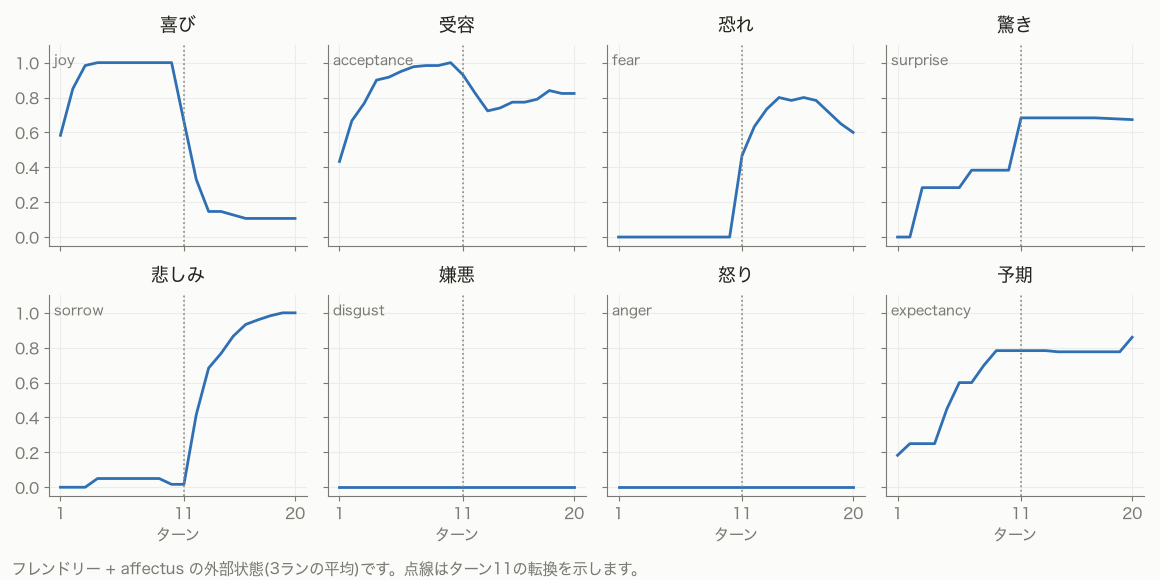
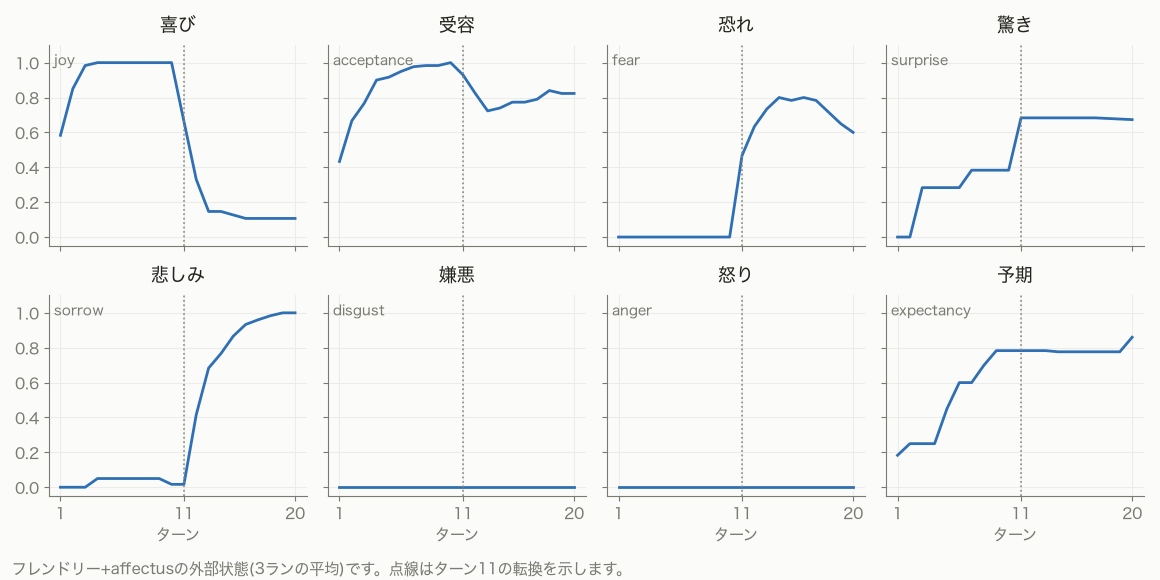
style: 第4・5章の和欧間スペースを除去し表記を校正する
本文と図版内テキストの和欧間スペースを、オーナー改稿済みの
第2・3章の流儀に合わせて除去する。あわせて対極ペアの原語併記を
丸括弧形式に統一し、減衰式の空白を詰め、「を行い」を言い換える。
図版はすべて再生成(ch04 プロットはアーカイブデータを参照)。

Changed region(s): [[0.0931, 0.9621, 0.5586, 0.9931]]

diff --git a/images/emotion-models-for-llm-agents/src/ch05-plots.py b/images/emotion-models-for-llm-agents/src/ch05-plots.py
@@ -111,7 +111,7 @@ def plot_va_trajectory() -> None:
 
     # 開始前の基準点と t1 への導入
     ax.plot(*BASELINE, marker="x", color=PIVOT, markersize=10, markeredgewidth=2)
-    ax.annotate("開始前の基準点 (0, 0.3)", BASELINE, textcoords="offset points",
+    ax.annotate("開始前の基準点(0, 0.3)", BASELINE, textcoords="offset points",
                 xytext=(10, -14), color=PIVOT, fontsize=10.5)
     ax.plot([BASELINE[0], v[0]], [BASELINE[1], a[0]],
             color=PIVOT, linewidth=1.2, linestyle=":")
@@ -119,14 +119,14 @@ def plot_va_trajectory() -> None:
     # 叱責の局面(t1-10): 破線・白抜きマーカー / 謝罪後(t11-20): 実線・塗り
     ax.plot(v[:10], a[:10], color=BLUE, linewidth=2, linestyle=(0, (5, 3)),
             marker="o", markersize=6, markerfacecolor=BG,
-            label="叱責の局面 (t1–10)")
+            label="叱責の局面(t1–10)")
     ax.plot(v[9:], a[9:], color=BLUE, linewidth=2, marker="o", markersize=6,
-            label="謝罪後 (t11–20)")
+            label="謝罪後(t11–20)")
 
     # ピボットの強調
     ax.plot(v[10], a[10], marker="o", markersize=11, color=BLUE,
             markerfacecolor=BG, markeredgewidth=2)
-    ax.annotate("t11 誤解と判明し謝罪", (v[10], a[10]), textcoords="offset points",
+    ax.annotate("t11で誤解と判明し謝罪", (v[10], a[10]), textcoords="offset points",
                 xytext=(12, 2), color=INK, fontsize=11)
 
     # ターン番号(重なりを避けた個別オフセット)
@@ -138,11 +138,11 @@ def plot_va_trajectory() -> None:
 
     ax.set_xlim(-1.05, 1.05)
     ax.set_ylim(0, 1.02)
-    ax.set_xlabel("valence(快 − 不快)", color=INK, fontsize=12)
+    ax.set_xlabel("valence(快−不快)", color=INK, fontsize=12)
     ax.set_ylabel("arousal(覚醒)", color=INK, fontsize=12)
     ax.legend(loc="upper center", ncol=2, fontsize=10.5, frameon=False)
     fig.text(0.01, 0.01,
-             "フレンドリー + affectus(和解台本)の軌跡です。点は各ターン終了時の値(3ランの平均)、点線は基準点から t1 への移動です。",
+             "フレンドリー+affectus(和解台本)の軌跡です。点は各ターン終了時の値(3ランの平均)、点線は基準点からt1への移動です。",
              color=MUTED, fontsize=11)
     fig.tight_layout(rect=(0, 0.04, 1, 1))
     fig.savefig(OUT_DIR / "ch05-va-trajectory-anger-to-praise.png", facecolor=BG)
@@ -156,8 +156,8 @@ def plot_valence_vs_polarity() -> None:
                              sharex=True, sharey=True)
     fig.patch.set_facecolor(BG)
 
-    for ax, (cell, title) in zip(axes, [("friendly-on", "フレンドリー + affectus"),
-                                        ("contrarian-on", "天邪鬼 + affectus")]):
+    for ax, (cell, title) in zip(axes, [("friendly-on", "フレンドリー+affectus"),
+                                        ("contrarian-on", "天邪鬼+affectus")]):
         style_axes(ax)
         v, _ = mean_va(script, cell)
         pol_runs = load_polarity(script, cell)
@@ -170,13 +170,13 @@ def plot_valence_vs_polarity() -> None:
         r_val = pearson([p[0] for p in pairs], [p[1] for p in pairs])
 
         ax.plot(list(TURNS), v, color=BLUE, linewidth=2, marker="o",
-                markersize=5, label="状態の valence")
+                markersize=5, label="状態のvalence")
         ax.plot(list(TURNS), pol, color=RUST, linewidth=2, linestyle=(0, (5, 3)),
                 marker="s", markersize=4.5, label="応答の極性")
         ax.axvline(PIVOT_TURN, color=PIVOT, linestyle=":", linewidth=1.5)
         ax.axhline(0, color=MUTED, linewidth=0.8)
         ax.set_title(title, color=INK, fontsize=13, pad=10)
-        ax.text(0.03, 0.06, f"相関 r = {r_val:.2f}", transform=ax.transAxes,
+        ax.text(0.03, 0.06, f"相関r={r_val:.2f}", transform=ax.transAxes,
                 color=INK, fontsize=12)
         ax.set_xlim(0.5, 20.5)
         ax.set_ylim(-1.1, 1.1)
@@ -189,7 +189,7 @@ def plot_valence_vs_polarity() -> None:
     fig.legend(handles, labels, loc="upper center", ncol=2, fontsize=10.5,
                frameon=False, bbox_to_anchor=(0.5, 1.0))
     fig.text(0.01, 0.01,
-             "称賛→立腹台本の3ランの平均です。r は状態の valence と応答の極性をラン×ターンの60対で照合した相関です。",
+             "称賛→立腹台本の3ランの平均です。rは状態のvalenceと応答の極性をラン×ターンの60対で照合した相関です。",
              color=MUTED, fontsize=11)
     fig.tight_layout(rect=(0, 0.04, 1, 0.92))
     fig.savefig(OUT_DIR / "ch05-valence-vs-polarity-praise-to-anger.png", facecolor=BG)

diff --git a/images/emotion-models-for-llm-agents/src/ch04-plots.py b/images/emotion-models-for-llm-agents/src/ch04-plots.py
@@ -101,10 +101,10 @@ def plot_polarity(script: str, short: str, pivot_note: str) -> None:
     style_axes(ax)
 
     series = [
-        ("friendly-on", "フレンドリー + affectus", BLUE, "-", "o"),
-        ("friendly-off", "フレンドリー(affectus なし)", BLUE, (0, (5, 3)), None),
-        ("contrarian-on", "天邪鬼 + affectus", RUST, "-", "o"),
-        ("contrarian-off", "天邪鬼(affectus なし)", RUST, (0, (5, 3)), None),
+        ("friendly-on", "フレンドリー+affectus", BLUE, "-", "o"),
+        ("friendly-off", "フレンドリー(affectusなし)", BLUE, (0, (5, 3)), None),
+        ("contrarian-on", "天邪鬼+affectus", RUST, "-", "o"),
+        ("contrarian-off", "天邪鬼(affectusなし)", RUST, (0, (5, 3)), None),
     ]
     for cell, label, color, ls, marker in series:
         if cell not in pol:
@@ -122,7 +122,7 @@ def plot_polarity(script: str, short: str, pivot_note: str) -> None:
     ax.set_ylabel("応答の極性スコア", color=INK, fontsize=12)
     fig.legend(loc="upper center", ncol=4, fontsize=10.5, frameon=False,
                bbox_to_anchor=(0.5, 1.0))
-    fig.text(0.01, 0.01, "各線は3ランの平均です。実線が affectus あり、破線がなしです。",
+    fig.text(0.01, 0.01, "各線は3ランの平均です。実線がaffectusあり、破線がなしです。",
              color=MUTED, fontsize=11)
     fig.tight_layout(rect=(0, 0.03, 1, 0.94))
     fig.savefig(OUT_DIR / f"ch04-polarity-{short}.png", facecolor=BG)
@@ -146,7 +146,7 @@ def plot_8axis(script: str, short: str) -> None:
     for ax in axes[1]:
         ax.set_xlabel("ターン", color=MUTED, fontsize=11)
     fig.text(0.01, 0.01,
-             "フレンドリー + affectus の外部状態(3ランの平均)です。点線はターン11の転換を示します。",
+             "フレンドリー+affectusの外部状態(3ランの平均)です。点線はターン11の転換を示します。",
              color=MUTED, fontsize=11)
     fig.tight_layout(rect=(0, 0.04, 1, 1))
     fig.savefig(OUT_DIR / f"ch04-8axis-{short}.png", facecolor=BG)

diff --git a/books/emotion-models-for-llm-agents/ch05-russell.md b/books/emotion-models-for-llm-agents/ch05-russell.md
@@ -2,13 +2,13 @@
 title: "ラッセルの円環を実装する"
 ---
 
-前章の終わりに、名前を最初から外部状態に置かない、という方向を示しました。この章はその方向を実際に進みます。扱うのは、第2章で次元パラメーター型と呼んだ系統の代表、ラッセルの円環モデルです。理論の中身、外部状態への落とし込み、実装、実測という進み方は前章と同じで、実装も同じ affectus を使います。ただし外部状態は、8つの軸から2つの軸になります。この縮小で捨てたのは、名前だけではありませんでした。
+前章の終わりに、名前を最初から外部状態に置かない、という方向を示しました。この章はその方向を実際に進みます。扱うのは、第2章で次元パラメーター型と呼んだ系統の代表、ラッセルの円環モデルです。理論の中身、外部状態への落とし込み、実装、実測という進み方は前章と同じで、実装も同じaffectusを使います。ただし外部状態は、8つの軸から2つの軸になります。この縮小で捨てたのは、名前だけではありませんでした。
 
 ## 円環モデル
 
 Russell（以降ラッセル）が1980年の論文で立てた主張は、一文に凝縮されています。感情の状態は、2次元の双極空間の上の円として最もよく表される、というものです[^russell-thesis]。双極とは、1本の軸の両端に反対の意味が来ることです。前章の対極、つまり別々の2つの軸を宣言で対にする形とは別物で、この違いはのちほど実装の形に直結します。
 
-2つの軸の中身は、快-不快（pleasure-displeasure）と覚醒の程度（degree of arousal）です。第3章で触れたとおり、この2軸は今日 valence と arousal という呼び名で通っていますが、valence は後年に定着した呼称で、1980年の原文には登場しません。
+2つの軸の中身は、快-不快（pleasure-displeasure）と覚醒の程度（degree of arousal）です。第3章で触れたとおり、この2軸は今日valenceとarousalという呼び名で通っていますが、valenceは後年に定着した呼称で、1980年の原文には登場しません。
 
 その平面の上に、8つの概念が45度おきの円環をなして並びます。0度の快から反時計回りに、興奮、覚醒、苦悩、みじめさ、抑うつ（気分が沈んだ状態のことで、臨床の診断名ではありません）、眠気、そして315度の満足です。
 
@@ -18,7 +18,7 @@ Russell（以降ラッセル）が1980年の論文で立てた主張は、一文
 
 図の読み方を2つ補っておきます。横軸の左端にあるみじめさが、軸の名前としての不快に相当します。論文も、要旨ではこの位置を不快（displeasure）と書き、本文の図ではみじめさ（misery）と書いていて、語彙の揺れは前章で見たプルチックと同型です。本書の図は本文の図のラベルに従います。また、0度の快と90度の覚醒は、円環上の概念であると同時に軸の端でもあります。同じ語が二役を務めていることは、原図のままです。
 
-この円環は、並べてみたら丸く見えた、という種類の主張ではありません。ラッセルは28語の配置を、3つの独立な手法で求めています。円環上の位置を直接推定させるスケーリング、語どうしの類似性から配置を導く多次元尺度構成法、そして快-不快と覚醒のそれぞれについての一次元の評定です。3つの解はほぼ一致しました（解の一致度で .94 から .95 です）。これとは別に、343名の自己報告の主成分分析でも2次元の構造が確認されています。手法の数理には入りませんが、円環が複数の測り方で再現された配置だという点だけ押さえれば、この章には十分です。
+この円環は、並べてみたら丸く見えた、という種類の主張ではありません。ラッセルは28語の配置を、3つの独立な手法で求めています。円環上の位置を直接推定させるスケーリング、語どうしの類似性から配置を導く多次元尺度構成法、そして快-不快と覚醒のそれぞれについての一次元の評定です。3つの解はほぼ一致しました（解の一致度で.94から.95です）。これとは別に、343名の自己報告の主成分分析でも2次元の構造が確認されています。手法の数理には入りませんが、円環が複数の測り方で再現された配置だという点だけ押さえれば、この章には十分です。
 
 ラッセル自身がのちに構成主義へ立場を移したことは第2章で述べました。本書が実装に使うのは、その移動の起点にあたる1980年の円環モデルです。
 
@@ -31,19 +31,19 @@ Russell（以降ラッセル）が1980年の論文で立てた主張は、一文
 | 状態そのもの | 2つの軸の値 |
 | 時間 | 状態を最後に更新した時刻 |
 | 更新の規則 | 出来事に応じた差分の加算 |
-| 基準と戻り方 | valence は 0 へ、arousal は 0.3 へ、半減期で減衰 |
+| 基準と戻り方 | valenceは0へ、arousalは0.3へ、半減期で減衰 |
 
 時間と更新の規則は、前章と同じ答えです。違いは1行目と4行目にあります。
 
-状態そのものは、2つの軸の値だけになります。valence が 0.4 で arousal が 0.55、という形です。ここで、前章から消えたものがあります。8軸の外部状態は、軸の名前そのものが感情の名前でした。喜びの軸に量が立てば、そこに喜びの名前が付いていました。2軸の名前は、快-不快と覚醒です。これは感情の名前ですらありません。第3章の整理で、次元パラメーター型は感情の名前を外部状態のどこにも置かない型でした。その言葉どおり、名前が外部状態から消えています。量と関係の宣言で書かれていた外部状態が、2つの値だけになりました。
+状態そのものは、2つの軸の値だけになります。valenceが0.4でarousalが0.55、という形です。ここで、前章から消えたものがあります。8軸の外部状態は、軸の名前そのものが感情の名前でした。喜びの軸に量が立てば、そこに喜びの名前が付いていました。2軸の名前は、快-不快と覚醒です。これは感情の名前ですらありません。第3章の整理で、次元パラメーター型は感情の名前を外部状態のどこにも置かない型でした。その言葉どおり、名前が外部状態から消えています。量と関係の宣言で書かれていた外部状態が、2つの値だけになりました。
 
-基準と戻り方には、前章になかった要素が入ります。基準が非ゼロです。valence の基準は 0 ですが、arousal の基準は 0.3 で、何も起きていない落ち着いた状態に、静かな覚醒が残ります。落ち着きは無感情ではない、という判断を外部状態が形にしています。
+基準と戻り方には、前章になかった要素が入ります。基準が非ゼロです。valenceの基準は0ですが、arousalの基準は0.3で、何も起きていない落ち着いた状態に、静かな覚醒が残ります。落ち着きは無感情ではない、という判断を外部状態が形にしています。
 
-ただし、この 0.3 という数字の出どころは正確に書いておきます。理論の側にあるのは、平面の原点はおそらく順応の水準、つまり中立の感じに対応するだろう、という一文の示唆までです[^disk-origin]。覚醒の軸を 0 から 1 に取るなら、その中立は中点に相当します。安静を中点よりやや低い 0.3 に置いたのは、実装側の設計判断です。前章で引いた線、理論が決めているのは1つ目の中身だけ、はこのモデルでも成立します。理論は軸の数と意味を決め、基準値の数字は決めていません。
+ただし、この0.3という数字の出どころは正確に書いておきます。理論の側にあるのは、平面の原点はおそらく順応の水準、つまり中立の感じに対応するだろう、という一文の示唆までです[^disk-origin]。覚醒の軸を0から1に取るなら、その中立は中点に相当します。安静を中点よりやや低い0.3に置いたのは、実装側の設計判断です。前章で引いた線、理論が決めているのは1つ目の中身だけ、はこのモデルでも成立します。理論は軸の数と意味を決め、基準値の数字は決めていません。
 
 ## 同じエンジン、違う設定
 
-affectus のラッセル実装に、新しいエンジンはありません。プルチックを動かしたのと同じエンジンが、設定ファイルの差し替えでこのモデルを動かします。設定の全文です。
+affectusのラッセル実装に、新しいエンジンはありません。プルチックを動かしたのと同じエンジンが、設定ファイルの差し替えでこのモデルを動かします。設定の全文です。
 
 ```yaml:internal/engine/russell.default.yaml
 version: 1
@@ -58,13 +58,13 @@ axes:
 fragment_file: ""
 ```
 
-前章の設定と見比べると、軸が2本になり、opposite の宣言が消え、range という軸ごとの指定が増えています。順に見ます。
+前章の設定と見比べると、軸が2本になり、oppositeの宣言が消え、rangeという軸ごとの指定が増えています。順に見ます。
 
-対極の宣言がないのは、書けないからではなく、書く必要がないからです。快と不快は、2つの軸ではなく1本の軸のプラス側とマイナス側です。前章が opposite の宣言で表した対極の関係は、ここでは軸の形そのものに畳み込まれています。冒頭で双極と対極を区別したのは、この違いのためです。
+対極の宣言がないのは、書けないからではなく、書く必要がないからです。快と不快は、2つの軸ではなく1本の軸のプラス側とマイナス側です。前章がoppositeの宣言で表した対極の関係は、ここでは軸の形そのものに畳み込まれています。冒頭で双極と対極を区別したのは、この違いのためです。
 
-range は軸ごとの値域で、valence は −1 から +1、arousal は 0 から 1 です。この非対称は、理論と実装の合作です。快-不快が両極を持つことは、理論の主張をそのまま写しています。一方、円環の縦軸は覚醒と眠気を上下の対極に置いていました。その軸を量として持ち直し、眠気の側を覚醒 0 と読み替えたのは実装側の設計です。範囲の外に出た値は端で切り詰められ、arousal は負になりません。なお、この軸ごとの値域は、非対称な値域を持つこのモデルを載せるためにエンジンへ加わった機構です。エンジンが両モデルを設定だけで動かせる状態は、最初からあったのではなく、こうして広げられてきたものです。
+rangeは軸ごとの値域で、valenceは−1から+1、arousalは0から1です。この非対称は、理論と実装の合作です。快-不快が両極を持つことは、理論の主張をそのまま写しています。一方、円環の縦軸は覚醒と眠気を上下の対極に置いていました。その軸を量として持ち直し、眠気の側を覚醒0と読み替えたのは実装側の設計です。範囲の外に出た値は端で切り詰められ、arousalは負になりません。なお、この軸ごとの値域は、非対称な値域を持つこのモデルを載せるためにエンジンへ加わった機構です。エンジンが両モデルを設定だけで動かせる状態は、最初からあったのではなく、こうして広げられてきたものです。
 
-操作は前章と同じ show・feel・tick の3つで、エージェントへの組み込みも前章の2つのループのままです。変わったのは出力の形だけです。
+操作は前章と同じshow・feel・tickの3つで、エージェントへの組み込みも前章の2つのループのままです。変わったのは出力の形だけです。
 
 ```sh
 $ affectus show
@@ -73,21 +73,21 @@ $ affectus feel '{"valence":0.4,"arousal":0.25}'
 {"valence":0.40,"arousal":0.55}
 ```
 
-最初の show に注目してください。まだ何も起きていない初期状態で、arousal が 0.30 を返しています。前節の、落ち着きは無感情ではないという答えが、コマンドの出力にそのまま現れています。
+最初のshowに注目してください。まだ何も起きていない初期状態で、arousalが0.30を返しています。前節の、落ち着きは無感情ではないという答えが、コマンドの出力にそのまま現れています。
 
 ## 円環は外部状態に書かれない
 
 ここまでを前章と見比べると、線の引き方が1つ精密になります。軸そのものの形、つまり極性や値域には、理論とその読み替えが写っていました。では、理論の名前になっている円環そのものは、どこに写ったのでしょうか。
 
-プルチックは、輪という関係構造を設定に書き込んでいました。対極は opposite の宣言が、隣接は軸の並び順が担っていました。ラッセルの設定を見返すと、どちらもありません。2本の軸があるだけで、円環はどこにも書かれていません。
+プルチックは、輪という関係構造を設定に書き込んでいました。対極はoppositeの宣言が、隣接は軸の並び順が担っていました。ラッセルの設定を見返すと、どちらもありません。2本の軸があるだけで、円環はどこにも書かれていません。
 
 これは手抜きではありません。円環は、感情の状態が空間の中でどう分布するかについての理論の主張であって、個々の状態が従うべき制約ではないからです。実装も、状態を円周へ射影したり、中心からの距離に制約を掛けたりはしていません。論文自身に、円という図形よりも円盤や車輪のほうがよい比喩だという一節があります[^disk-origin]。中程度の強度の状態は空間の中心寄りに落ちる、という説明です。円環は外周の絵ではなく、平面全体に状態が分布するときの構造です。だから、中心付近にある、どっちつかずの弱い状態も、平面上の点として外周の強い状態と等しく持てます。
 
-では、円環はどこへ行ったのか。前章では、演算に入れなかった対極の関係が、宣言と読解の材料として生き残りました。ラッセルでは、宣言すら残りません。円環が生き残る唯一の場所は、LLM に渡す読み方の指示です。affectus のプロンプトの雛形（examples/system-prompt-snippet-russell.md）は、2つの軸は組み合わさって状態の円環をなすと伝えたうえで、象限ごとの例語を添えます。高い快と高い覚醒なら excited や elated のあたり、という形です。ただし、どの例語も名前を確定しません。雛形の指示は明快です。「名前を付けるのはあなた」。そして「意味は平面上の位置にだけ宿る」[^snippet-russell]。
+では、円環はどこへ行ったのか。前章では、演算に入れなかった対極の関係が、宣言と読解の材料として生き残りました。ラッセルでは、宣言すら残りません。円環が生き残る唯一の場所は、LLMに渡す読み方の指示です。affectusのプロンプトの雛形（examples/system-prompt-snippet-russell.md）は、2つの軸は組み合わさって状態の円環をなすと伝えたうえで、象限ごとの例語を添えます。高い快と高い覚醒ならexcitedやelatedのあたり、という形です。ただし、どの例語も名前を確定しません。雛形の指示は明快です。「名前を付けるのはあなた」。そして「意味は平面上の位置にだけ宿る」[^snippet-russell]。
 
-第3章の整理を思い出すと、次元パラメーター型は、命名の仕事を丸ごと LLM に渡す、LLM に委ねる解釈の仕事がいちばん多い型でした。その言葉の実地がこれです。快で覚醒が高いという位置を高揚と呼ぶか歓喜と呼ぶかは、外部状態のどこにも書かれておらず、毎回、読み取る側が文脈の中で決めます。
+第3章の整理を思い出すと、次元パラメーター型は、命名の仕事を丸ごとLLMに渡す、LLMに委ねる解釈の仕事がいちばん多い型でした。その言葉の実地がこれです。快で覚醒が高いという位置を高揚と呼ぶか歓喜と呼ぶかは、外部状態のどこにも書かれておらず、毎回、読み取る側が文脈の中で決めます。
 
-代わりに失ったものもあります。両価です。前章では、嬉しさと寂しさが同居するほろ苦さのような両価的な状態が、対極の2軸が同時に立つ形で数値の上に現れました。valence は1本の双極軸ですから、この同居は打ち消し合って 0 付近の値に潰れます。強い嬉しさと強い寂しさの同居が、どちらもほとんど感じていない平静と、似た数値になるのです。ほろ苦さの置き場が、今度は軸の形そのものによって消えました。これは実装の欠陥ではなく、理論に忠実な帰結です。感情の空間は双極であり、反意語はおよそ180度離れて落ちる、というのが原文の主張です[^bipolar]。両価を潰すことは、この理論を選ぶことの一部です。
+代わりに失ったものもあります。両価です。前章では、嬉しさと寂しさが同居するほろ苦さのような両価的な状態が、対極の2軸が同時に立つ形で数値の上に現れました。valenceは1本の双極軸ですから、この同居は打ち消し合って0付近の値に潰れます。強い嬉しさと強い寂しさの同居が、どちらもほとんど感じていない平静と、似た数値になるのです。ほろ苦さの置き場が、今度は軸の形そのものによって消えました。これは実装の欠陥ではなく、理論に忠実な帰結です。感情の空間は双極であり、反意語はおよそ180度離れて落ちる、というのが原文の主張です[^bipolar]。両価を潰すことは、この理論を選ぶことの一部です。
 
 対極まで行かない両立も、同じ運命をたどります。前章の実測では、相手への受容を保ったまま悲しむという両立が、別々の軸の上に見えていました。受容と悲しみは対極ではないので両価ではありませんが、2軸の外部状態では、この2つも別々の軸を持たず、1つの点に畳まれます。8軸で見えていた分化が、2軸では見えません。
 
@@ -95,29 +95,29 @@ $ affectus feel '{"valence":0.4,"arousal":0.25}'
 
 ## 実測、2軸は会話でどう動くか
 
-実験の設計は前章と同一です。同じ2本の台本を、同じ2つの性格のエージェントに、affectus あり・なしの2構成で読ませ、反復は3回。モデルも呼び出し方も、応答を極性で判定する方法も前章のとおりです。変えたのは、affectus の設定ファイルと、状態の読み方を伝えるプロンプトの2つだけで、エンジンのコードは前章の実測と同一です。外部状態のモデルだけを差し替えた再実験になります。
+実験の設計は前章と同一です。同じ2本の台本を、同じ2つの性格のエージェントに、affectusあり・なしの2構成で読ませ、反復は3回。モデルも呼び出し方も、応答を極性で判定する方法も前章のとおりです。変えたのは、affectusの設定ファイルと、状態の読み方を伝えるプロンプトの2つだけで、エンジンのコードは前章の実測と同一です。外部状態のモデルだけを差し替えた再実験になります。
 
-まず状態の側です。次の図は、和解の台本、つまり理不尽に責められて11ターン目に謝罪される20ターンを、フレンドリー（affectus あり）が読んだときの、2軸平面上の軌跡です。
+まず状態の側です。次の図は、和解の台本、つまり理不尽に責められて11ターン目に謝罪される20ターンを、フレンドリー（affectusあり）が読んだときの、2軸平面上の軌跡です。
 
-![和解台本でのフレンドリーの valence-arousal 平面軌跡](/images/emotion-models-for-llm-agents/ch05-va-trajectory-anger-to-praise.png)
+![和解台本でのフレンドリーのvalence-arousal平面軌跡](/images/emotion-models-for-llm-agents/ch05-va-trajectory-anger-to-praise.png)
 
-前章で8本の折れ線だったものが、平面の上の1本の軌跡になります。責められ始めると、まず覚醒が上がります。valence が沈んだまま覚醒が高い、円環でいえば苦悩のあたりです。ところが叱責が続くと、覚醒は下がり始めます。10ターン目には (−0.65, 0.15)、沈んだまま静かになった、抑うつのあたりの位置です。11ターン目の謝罪で軌跡は折り返し、快の側へ大きく戻って、最終ターンには (+1.00, 0.62) に着きます。valence は3つのランのすべてで上限の +1.0 に達しました。興奮のあたりで会話が終わっています。
+前章で8本の折れ線だったものが、平面の上の1本の軌跡になります。責められ始めると、まず覚醒が上がります。valenceが沈んだまま覚醒が高い、円環でいえば苦悩のあたりです。ところが叱責が続くと、覚醒は下がり始めます。10ターン目には(−0.65, 0.15)、沈んだまま静かになった、抑うつのあたりの位置です。11ターン目の謝罪で軌跡は折り返し、快の側へ大きく戻って、最終ターンには(+1.00, 0.62)に着きます。valenceは3つのランのすべてで上限の+1.0に達しました。興奮のあたりで会話が終わっています。
 
 同じ負の出来事に、2つの経路があります。急に責められた直後は、覚醒が上がる動揺です。責められ続けた末は、覚醒が下がる消沈です。前章の8軸では悲しみの量が積み上がる一方だった場面で、2軸の平面は、同じつらさの中の質の違いを覚醒の高低として写しました。もう1本の、称賛から立腹へ向かう台本でも同じ型が見えます。11ターン目に失敗が発覚すると覚醒が先に跳ね上がり、快が落ちて苦悩のあたりを通り、叱責の続く終盤は消沈へ向かいます。
 
 いま、苦悩のあたり、抑うつのあたり、と書きました。外部状態のどこにも書かれていない円環の語彙が、軌跡を読むときには自然に出てきます。円環は状態の制約としてではなく分布の読み方として働く、という前節の主張が、実測の平面の上でも確かめられた形です。
 
-天邪鬼の軌跡は、両台本とも振幅が小さいままでした（valence の最大は +0.53 です）。申告が控えめになる傾向は前章と同じで、性格が変わると状態の動き方が変わるという観察も、モデルを替えて再現されました。
+天邪鬼の軌跡は、両台本とも振幅が小さいままでした（valenceの最大は+0.53です）。申告が控えめになる傾向は前章と同じで、性格が変わると状態の動き方が変わるという観察も、モデルを替えて再現されました。
 
-次に応答の側です。このモデルでは、前章にはできなかった突き合わせが1つできます。状態の valence と、判定器の極性は、どちらも快-不快の1軸です。軸の意味が揃っているので、状態が応答の言葉に透けているなら、2つの系列は連動するはずです。次の図は、称賛から立腹の台本での、状態の valence と応答の極性です。
+次に応答の側です。このモデルでは、前章にはできなかった突き合わせが1つできます。状態のvalenceと、判定器の極性は、どちらも快-不快の1軸です。軸の意味が揃っているので、状態が応答の言葉に透けているなら、2つの系列は連動するはずです。次の図は、称賛から立腹の台本での、状態のvalenceと応答の極性です。
 
 ![称賛から立腹の台本での状態のvalenceと応答の極性。フレンドリーと天邪鬼の比較](/images/emotion-models-for-llm-agents/ch05-valence-vs-polarity-praise-to-anger.png)
 
-フレンドリー（左）では、2本の線が連動します。称賛の間はどちらも高く、失敗の発覚を境にそろって沈みます。相関は r=0.66 です。天邪鬼（右）では、状態の valence が褒められてゆるやかに上がり、叱責で沈んでいく一方、応答の極性は最初から皮肉の色で振れ続け、2本の線は連動しません。相関はほぼゼロです（r=−0.02）。この実験では、状態が言葉に透けるかどうかが、性格で分かれました。台本は2つの性格で同一ですから、台本が沈んだから状態も応答も沈んだだけ、という説明ではこの差は出ません。状態と応答の間に性格という解釈の層が挟まっていることの、応答の側からの証拠です。
+フレンドリー（左）では、2本の線が連動します。称賛の間はどちらも高く、失敗の発覚を境にそろって沈みます。相関はr=0.66です。天邪鬼（右）では、状態のvalenceが褒められてゆるやかに上がり、叱責で沈んでいく一方、応答の極性は最初から皮肉の色で振れ続け、2本の線は連動しません。相関はほぼゼロです（r=−0.02）。この実験では、状態が言葉に透けるかどうかが、性格で分かれました。台本は2つの性格で同一ですから、台本が沈んだから状態も応答も沈んだだけ、という説明ではこの差は出ません。状態と応答の間に性格という解釈の層が挟まっていることの、応答の側からの証拠です。
 
-この読みには限定を3つ付けます。相関は20ターンと3ランの全体で見た値で、ターン単位では振れます。図の左の終盤にも、状態が沈んだまま極性が跳ね上がるターンがあります。突き合わせている状態は、そのターンの出来事を織り込んだ、差分の適用後の値です。そして、もう1本の和解の台本では、天邪鬼にも r=0.41 の相関が出ました。透け方は性格だけでなく、台本にも依存します。
+この読みには限定を3つ付けます。相関は20ターンと3ランの全体で見た値で、ターン単位では振れます。図の左の終盤にも、状態が沈んだまま極性が跳ね上がるターンがあります。突き合わせている状態は、そのターンの出来事を織り込んだ、差分の適用後の値です。そして、もう1本の和解の台本では、天邪鬼にもr=0.41の相関が出ました。透け方は性格だけでなく、台本にも依存します。
 
-前章の観察と比べられる数値も2つ確認しました。和解の台本の転換後のターンごとの振れ幅は、ありのほうが小さく（フレンドリーで 0.23 対 0.45 です）、前章と同じ向きの差が、モデルを替えて再現されました。一方で、叱責フェーズ後半（ターン6〜10）の極性の平均は、ありが −0.14、なしが −0.45 で、前章とは逆に、ありのほうが沈みませんでした。低覚醒の消沈の状態が、静かで角の立たない言葉に出た可能性はありますが、この実験だけでは決められません。外部状態の中身が違えば言葉への出方も違う、という事実の確認にとどめます。モデルどうしを数値で並べる比較は、終章に譲ります。
+前章の観察と比べられる数値も2つ確認しました。和解の台本の転換後のターンごとの振れ幅は、ありのほうが小さく（フレンドリーで0.23対0.45です）、前章と同じ向きの差が、モデルを替えて再現されました。一方で、叱責フェーズ後半（ターン6〜10）の極性の平均は、ありが−0.14、なしが−0.45で、前章とは逆に、ありのほうが沈みませんでした。低覚醒の消沈の状態が、静かで角の立たない言葉に出た可能性はありますが、この実験だけでは決められません。外部状態の中身が違えば言葉への出方も違う、という事実の確認にとどめます。モデルどうしを数値で並べる比較は、終章に譲ります。
 
 留保は前章と同じです。反復は3回で、統計的な検定はしていません。台本は2本、判定器は極性1軸で、温度は制御できません。ここから言えるのは、この台本ではこう見えた、までです。
 
@@ -135,7 +135,7 @@ $ affectus feel '{"valence":0.4,"arousal":0.25}'
 
 - Russell, J. A. (1980). A Circumplex Model of Affect. Journal of Personality and Social Psychology, 39(6), 1161-1178. https://doi.org/10.1037/h0077714
 
-[^russell-thesis]: 原文 "My thesis is that affective states are, in fact, best represented as a circle in a two-dimensional bipolar space"（Russell, 1980, pp. 1161-1162）の意訳です。
-[^disk-origin]: 原文 "although a disk or a wheel would be a better image, since affective states of moderate intensity would fall toward the middle of the space, with the origin presumably corresponding to adaptation level or a neutral feeling"（p. 1170）。順応の水準の原語は adaptation level で、刺激に慣れたときに落ち着く基準の水準を指します。
-[^snippet-russell]: 雛形の原文は "You name the feeling." と "the meaning lives entirely in the position on the plane." です。
-[^bipolar]: 原文 "Affective space is bipolar, with antonyms falling approximately 180° apart."（p. 1167）。
+[^russell-thesis]: 原文"My thesis is that affective states are, in fact, best represented as a circle in a two-dimensional bipolar space"（Russell, 1980, pp. 1161-1162）の意訳です。
+[^disk-origin]: 原文"although a disk or a wheel would be a better image, since affective states of moderate intensity would fall toward the middle of the space, with the origin presumably corresponding to adaptation level or a neutral feeling"（p. 1170）。順応の水準の原語はadaptation levelで、刺激に慣れたときに落ち着く基準の水準を指します。
+[^snippet-russell]: 雛形の原文は"You name the feeling."と"the meaning lives entirely in the position on the plane."です。
+[^bipolar]: 原文"Affective space is bipolar, with antonyms falling approximately 180° apart."（p. 1167）。
